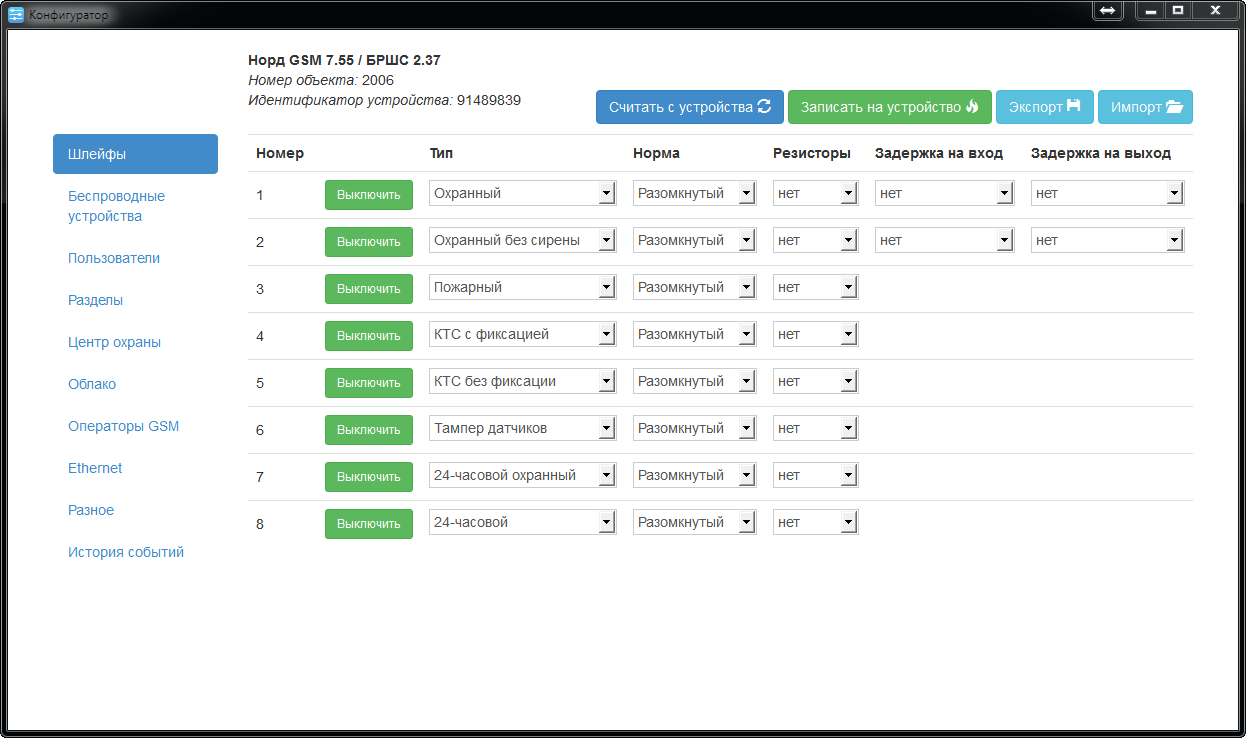
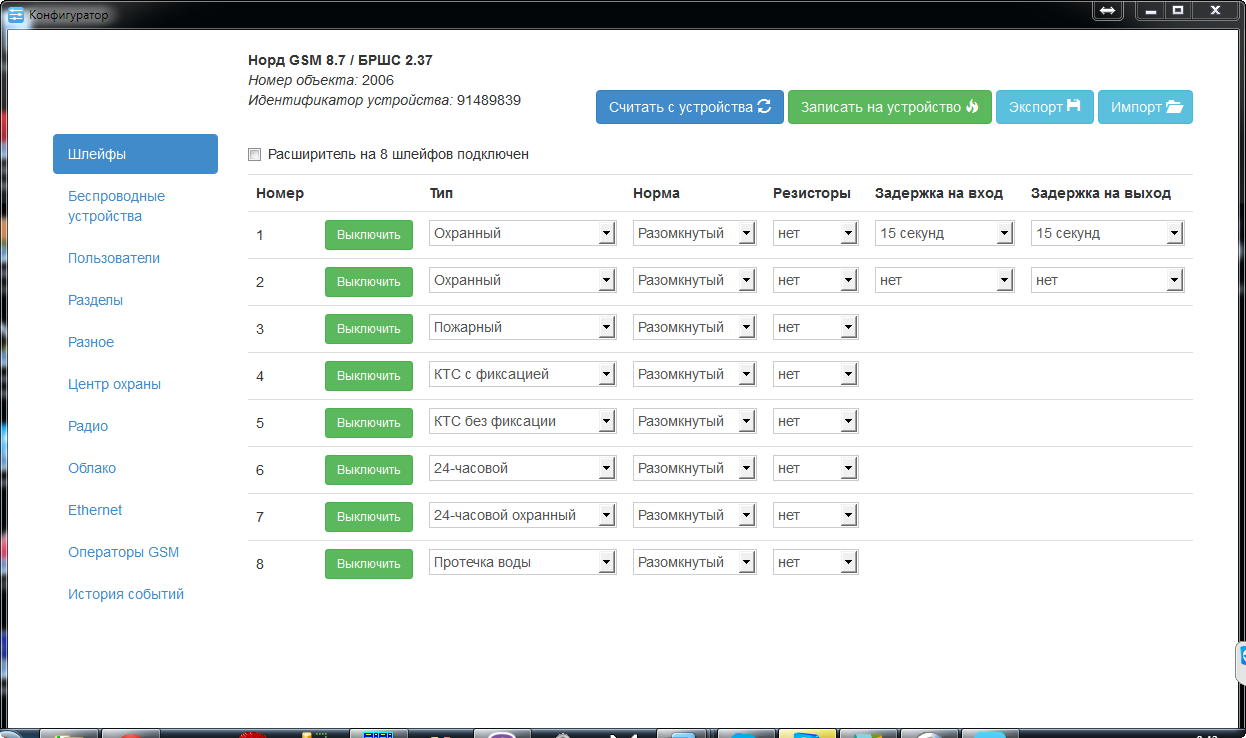
Конфигуратор, вкладка «Шлейфы»

diff --git a/nord/05-06-config-zones.md b/nord/05-06-config-zones.md
@@ -1,0 +1,163 @@
+### Вкладка «Шлейфы»
+
+На вкладке «Шлейфы» выполняется настройка параметров проводных шлейфов, подключенных к прибору.
+
+\begin{minipage}{\linewidth}
+	\makebox[\linewidth]{
+ 		\includegraphics[width=\textwidth]{img/05-05-config-nord-03.png}
+ 	}
+	\captionof*{figure}{Вкладка «Шлейфы»}
+\end{minipage}
+
+**Расширитель «РПШ-8»**
+
+Без использования дополнительного оборудования к прибору «Норд GSM» можно подключить до 8 проводных шлейфов. В случае, если используется расширитель проводных шлейфов «РПШ-8», количество проводных шлейфов увеличивается до 16.
+
+Если «галочка» для параметра «Раширитель на 8 шлейфов подключен» установлена, то механизм опроса проводных шлейфов изменяется, а общее количество шлейфов на вкладке увеличивается до 16. 
+
+> Поскольку расширитель «РПШ-8» подключается к клеммам «FIRE» и «DEFECT», на вкладке «Разное» изменяется список доступных клемм для подключения светового оповещателя «Маяк»: без расширителя «Маяк» может быть подключен к клеммам «FIRE» и «SMOKE», а если расширитель подключен, то для «Маяка» свободной остается только клемма «SMOKE». 
+
+**Нумерация шлейфов**
+
+Номера шлейфов, которые отображаются в конфигураторе, соответствуют маркировке клемм на печатной плате: «Z1» – шлейф №1, «Z2» – шлейф №2 и так далее.
+
+Если к прибору подключен расширитель «РПШ-8», то клемма «Z1» предназначена для подключения сигнальных кабелей от шлейфов №1 и №9, клемма «Z2» - для кабелей от шлейфов №2 и №10 и так далее. Другими словами, клемма N предназначена для подключения кабелей от шлейфов «N» и «N+8». 
+
+**Включение и выключение шлейфа**
+
+Кнопка включения / выключения шлейфа находится в левой колонке, сразу за номером шлейфа. Цвет кнопки отражает текущее состояние шлейфа: если кнопка зеленая, то шлейф включен, если кнопка красная, то выключен. Надпись на кнопке соответствует операции, которая будет выполнена при нажатии на кнопку: на зеленой кнопке написано «Выключить», потому что при нажатии на кнопку шлейф будет выключен, а на красной кнопке написано «Включить», так как при нажатии на красную кнопку шлейф будет включен.
+
+Для того, чтобы прибор начал контролировать состояние шлейфа, а также для того, чтобы можно было выполнить настройку шлейфа, его необходимо включить.
+
+Если проводной шлейф *выключен*, то его состояние, а также изменения состояния игнорируются прибором. Кроме того, если шлейф выключен, то его нельзя добавить в раздел: в списке доступных для добавления в раздел шлейфов он не отображается. При этом, если шлейф был добавлен в раздел до того, как он был выключен, шлейф остается в разделе.
+
+Выключение шлейфа может быть полезным в том случае, если необходимо временно прекратить контроль шлейфа, например, вследствие его неисправности. Выключить шлейф можно как при подключении к прибору локально (по USB), так и при удаленном подключении из web-конфигуратора.
+
+**Тип шлейфа**
+
+Установка типа для шлейфа является ключевым моментом в настройке шлейфа, так как этот параметр полностью определяет реакцию прибора на изменение состояния шлейфа. От того, какой указан тип для шлейфа, зависит следующее: 
+
+* будет ли прибор реагировать на переход шлейфа в состояние «Тревога» всегда, либо только в то время, когда раздел, в который включен шлейф, взят под охрану;
+* какой код события будет передан на пульт охраны при тревоге в шлейфе;
+* будет ли включена сирена при тревоге в шлейфе;
+* будет ли выключено и снова включено питание на клемме «SMOKE» после тревоги в шлейфе;
+* будет ли контролироваться нормальное состояние шлейфа при взятии раздела, в который он включен, под охрану.
+
+Отличия между типами проводных шлейфов, приведены в таблице ниже:
+
+\begin{minipage}{\linewidth}
+\definecolor{light-gray}{gray}{0.7}
+\renewcommand{\arraystretch}{1.4}
+\newcolumntype{Y}{>{\raggedright\arraybackslash}X}
+\begin{tabularx}{\textwidth}{llccY}
+\toprule
+\textbf{Тип шлейфа} & \textbf{Коды событий} & \textbf{Взятие / снятие} & \textbf{Сирена} & \textbf{Примечание} \\
+\midrule
+Охранный & E130 / R130 & Да & Да \\
+\arrayrulecolor{light-gray}\hline
+Охранный без сирены & E146 / R146 &  Да & Нет \\ 
+\arrayrulecolor{light-gray}\hline
+Проходной & E130 / R130 & Да & Да & Тревога в шлейфе специальным образом обрабатывается при взятии и снятии (см. ниже). \\ 
+\arrayrulecolor{light-gray}\hline
+Пожарный & E110 / R110 & Нет & Да & Тревога в шлейфе сопровождается сбросом питания пожарных датчиков (см. ниже). \\
+\arrayrulecolor{light-gray}\hline
+КТС с фиксацией & E120 / R120 & Нет & Нет \\ 
+\arrayrulecolor{light-gray}\hline
+КТС без фиксации & E120 / R120 & Нет & Нет & Для шлейфа этого типа используется отдельный интервал повтора тревог (см. ниже).  \\ 
+\arrayrulecolor{light-gray}\hline
+Тампер датчиков & E144 / R144 & Нет & Да \\ 
+\arrayrulecolor{light-gray}\hline
+24-часовой охранный & E133 / R133 & Нет & Да \\ 
+\arrayrulecolor{light-gray}\hline
+24-часовой & E150 / R150 & Нет & Да \\ 
+\arrayrulecolor{light-gray}\hline
+Протечка воды & E154 / R154 & Нет & Да \\ 
+\arrayrulecolor{light-gray}\hline
+Утечка газа & E151 / R151 & Нет & Да \\ 
+\bottomrule
+\end{tabularx}
+\captionof*{table}{Типы проводных шлейфов}
+\end{minipage}
+
+> Если для типа шлейфа указано «Да» в колонке «Взятие / снятие», то это означает, что шлейф такого типа может быть взят под охрану или снят с охраны вместе с любым из разделов, в который он ключен. Если же для типа шлейфа указано «Нет» в колонке «Взятие / снятие», то это означает, что шлейф такого типа взят под охрану *всегда*.
+
+> Если для типа шлейфа указано «Да» в колонке «Сирена», то это означает, что при тревоге в шлейфе такого типа будет включена сирена.
+
+***Тип шлейфа «Проходной»***
+
+Если для шлейфа указан тип «Проходной», то такой шлейф специальным образом обрабатывается при взятии и снятии.
+
+При взятии под охрану состояние проходного шлейфа игнорируется: прибор будет взят под охрану даже в том случае, если шлейф, сконфигурированный, как проходной, находится в тревоге. Кроме того, состояние проходного шлейфа игнорируется вплоть до окончания задержки на выход для всех шлейфов раздела, который берется под охрану. При этом задержку на выход для самого проходного шлейфа задать нельзя, у него всегда есть задержка на выход, которая равна наибольшей задержке на выход других шлейфов, включенных в раздел, который берется под охрану.
+
+Если раздел, в который включен проходной шлейф, взят под охрану и проходной шлейф становится тревожным, то сначала выполняется проверка, не начался ли отсчет задержки на вход для другого шлейфа раздела. Если идет отсчет задержки на вход, то тревога в проходном шлейфе игнорируется. Если задержки на вход нет, то по проходному шлейфу будет сформировано событие «Тревога» (**E130**).
+
+***Тип шлейфа «Пожарный»***
+
+Для данного типа шлейфа предусмотрен механизм автоматического выключения и включения питания пожарных датчиков, если шлейф не пришел в норму за интервал повтора тревог.
+
+> Питание пожарных датчиков, которые требуют выключения питания для восстановления нормального состояния, должно быть подключено к выходу «SMOKE».
+
+***Тип шлейфа «КТС без фиксации»***
+
+Если для шлейфа указан тип «КТС без фиксации», то такой шлейф имеет собственный интервал повтора тревог. 
+
+Для данного типа шлейфа интервал повтора тревог, заданный для прибора, не используется. Вместо него выставляется значение, равное 5 секундам. Таким образом, повторное нажатие на тревожную кнопку не раннее, чем через 5 секунд приведет к передаче еще одного события на пульт.
+
+**Норма**
+
+С помощью значения, которое задается в колонке «Норма», можно определить *нормальное* состояние для шлейфа сигнализации: замкнутый или разомкнутый:
+
+* если нормальное состояние для шлейфа определено, как *замкнутый*, то в таком шлейфе должны использоваться извещатели, которые также имеют *замкнутые* контакты своего выходного реле в нормальном состоянии. При тревоге такие извещатели должны *размыкать* контакты выходного реле.
+* если нормальное состояние для шлейфа определено, как *разомкнутый*, то в таком шлейфе должны использоваться извещатели, которые имеют *размкнутые* контакты своего выходного реле в нормальном состоянии. При тревоге такие извещатели должны *замыкать* контакты выходного реле.
+
+Необходимо отметить, что подавляющее большинство современных инфракрасных и магнитоконтактных извещателей имеют нормально замкнутые контакты своего выходного реле. Таким образом, для шлейфов, в которые включены эти датчики, нормальное состояние должно быть определено, как *замкнутый*.
+
+**Резисторы**
+
+С помощью значения, которое задается в колонке «Резисторы» можно указать количество оконечных резисторов, которые установлены в шлейфе.
+
+Если при подключении шлейфа не используется оконечных резисторов, то для такого шлейфа прибор может определить только одно из двух состояний: «Тревога» или «Норма». Такой шлейф весьма уязвим: если нормальное состояние для шлейфа определено, как *разомкнутый*, то достаточно просто перекусить кабель такого шлейфа в любом доступном месте, и шлейф навсегда останется в нормальном состоянии, тревоги по такому шлейфу не будет никогда. Ничуть не лучше выглядит шлейф, нормальное состояние для которого определено, как *замкнутый*: если удастся замкнуть сигнальные кабели шлейфа накоротко, то тревоги по нему также никогда не будет.
+
+Один оконечный резистор, установленный в шлейфе, позволяет отличить неисправность в шлейфе от тревоги. Какая именно неисправность может быть определена – обрыв или короткое замыкание – зависит от нормального состояния шлейфа: для нормального состояния шлейфа *разомкнутый* один оконечный резистор позволяет определить обрыв шлейфа, а для нормального состояния *замкнутый* – короткое замыкание.
+
+Два оконечных резистора позволяют определить и обрыв, и короткое замыкание для шлейфа с любым нормальным состоянием.
+
+> Для минимального противодействия выводу шлейфов сигнализации из строя, рекомендуется включать в шлейфы как минимум один оконечный резистор.
+
+**Задержка на вход**
+
+Параметр «Задержка на вход» позволят отложить формирование сигнала «Тревога» на время, которое указано в качестве значения для этого параметра. Как правило, этот параметр задается для шлейфов, которые пользователю *необходимо* нарушить для того, чтобы добраться до устройства управления сигнализацией. В качестве распространенных примеров таких шлейфов можно привести магнитоконтактные датчики, которые защищающие входные двери в охраняемое помещение.
+
+Как работает задержка на вход? Предположим, что у нас есть шлейф, в него включен магнитоконтактный извещатель, который установлен на входной 
+двери в офис. Для этого шлейфа задана задержка на вход, равная 15 секундам. Клавиатура, с помощью которого можно снять охранную сигнализацию с охраны, находится внутри офиса, то есть нужно открыть входную дверь для того, чтобы добраться до кодонаборника. Пользователь открывает входную дверь, магнитоконтактный извещатель срабатывает, но прибор не формирует тревогу, а начинает отсчет задержки на вход. Если в течении 15 секунд пользователь введет код, с помощью которого сигнализация будет снята с охраны, то тревога так и не будет сформирована, вместо нее на пульт охраны будет отправлено событие о снятии прибора с охраны. Если же в течении 15 секунд прибор не будет снят с охраны, то будет сформирована тревога.
+
+Значение параметра «Задержка на вход» можно указать только шлейфов, тип которых задан, как «Охранный» или «Охранный без сирены». Связано это с тем, что шлейфы всех остальных типов (за исключением «Проходного») не могут быть взяты или сняты с охраны: они находятся под охраной всегда. Что же касается типа шлейфа «Проходной», то шлейфы этого типа обрабатываютя при взятии или снятии специальным образом, так, как описано выше, в разделе «Типы шлейфов».
+
+***Событие «Возможная тревога»***
+
+При нарушении шлейфа с задержкой на вход прибор безусловно формирует событие «Возможная тревога» (**E138**). В качестве аргументов события передаются номер шлейфа, который был нарушен, и наименьший номер раздела, в который этот шлейф включен. Если будут нарушены несколько шлейфов с задержкой на вход, то для каждого шлейфа будет сформировано событие «Возможная тревога».
+
+На некоторых объектах контрольную панель нельзя разместить так, чтобы она находилась в отдельно охраняемой части помещения. Как правило, к таким объектам можно отнести небольшие помещения: торговые павильоны, гаражи, маленькие офисы и квартиры. Это означает, что во время отсчета задержки на вход контрольная панель может быть выведена из строя. Событие «Возможная тревога» позволяет пульту охраны контролировать работоспособность прибора после того, как начнется отсчет задержки на вход: если после начала задержки на вход не будет получено события о снятии прибора с охраны, то это повод выяснить, что происходит на объекте.
+
+Для автоматического контроля получения снятия после возможной тревоги в «Центре охраны», необходимо воспользоваться обработчиком событий «Вход через тревогу» или обработчиком событий «Контроль цепочки событий». 
+
+**Задержка на выход**
+
+Назначение параметра «Задержка на выход» очень схоже с назначением параметра «Задержка на вход», но только он предназначен для того, чтобы дать возможность пользователю выйти из охраняемого помещения после того, как он выполнил взятие прибора под охрану. Задержка на выход, как правило, устанавливается для шлейфов, которые защищают входные двери в охраняемые помещения.
+
+После того, как пользователь выполняет взятие раздела (с помощью клавиатуры, беспроводного брелока или ТМ-считывателя), прибор проверяет состояние всех шлейфов, включенных в раздел:
+
+* если обнаруживается неисправный шлейф, то прибор отказывается от взятия;
+* если обнаруживается шлейф в тревоге, то прибор тоже отказывается от взятия;
+* если неисправных или тревожных шлейфов нет, то прибор берется под охрану и начинается отсчет задержки на выход, если она есть.
+
+Событие о взятии под охрану (**E401**) формируется непосредственно при взятии, перед началом задержки на выход, если она есть. В качестве аргументов события передаются номер раздела, который взят под охрану, а также номер пользователя, который выполнил взятие.
+
+После того, как начался отсчет задержки на выход, прибор игнорирует состояние всех шлейфов, для которых задана задержка на выход, а также шлейфов, тип которых задан, как «Проходной». Если пользователь успеет покинуть помещение и закрыть входную дверь до того, как закончится отсчет задержки на выход, то тревоги после взятия не будет. Если же какой-то из шлейфов будет нарушен после того, как закончится задержка на выход, то будет сформирована тревога.
+
+Для беспроводных устройств за актуальное принимается то состояние, которое было получено при последнем опросе устройства. Таким образом, пользователю беспроводной системы может потребоваться подождать, пока беспроводной извещатель не пришлет в прибор норму. В случае, если ждать не хочется, можно задать для беспроводных извещателей минимально возможную задержку на выход.
+
+Может случится так, что во время взятия нельзя добиться нормального состояния одного или нескольких шлейфов, например, в том случае, если извещатели в шлейфах контролируют область клавиатуры. В этом случае шлейфы необходимо сконфигурировать, как *проходные*. Подробнее проходные шлейфы описаны выше, в разделе «Типы шлейфов».
+
+Тревога в шлейфах с задержкой на выход на момент взятия игнорируется. Это сделано для того, чтобы пользователю не нужно было проверять и закрывать входную дверь. Но, если хочется быть уверенным, что все шлейфы сигнализации находятся в норме на момент взятия, можно включить контроль тревоги в шлейфах с задержкой на выход на момент взятия. Для этого нужно поставить «галочку» для параметра «Запретить взятие при тревоге в шлейфе с задержкой на выход», который находится на вкладке «Разное», в разделе «Взятие и снятие».
+
